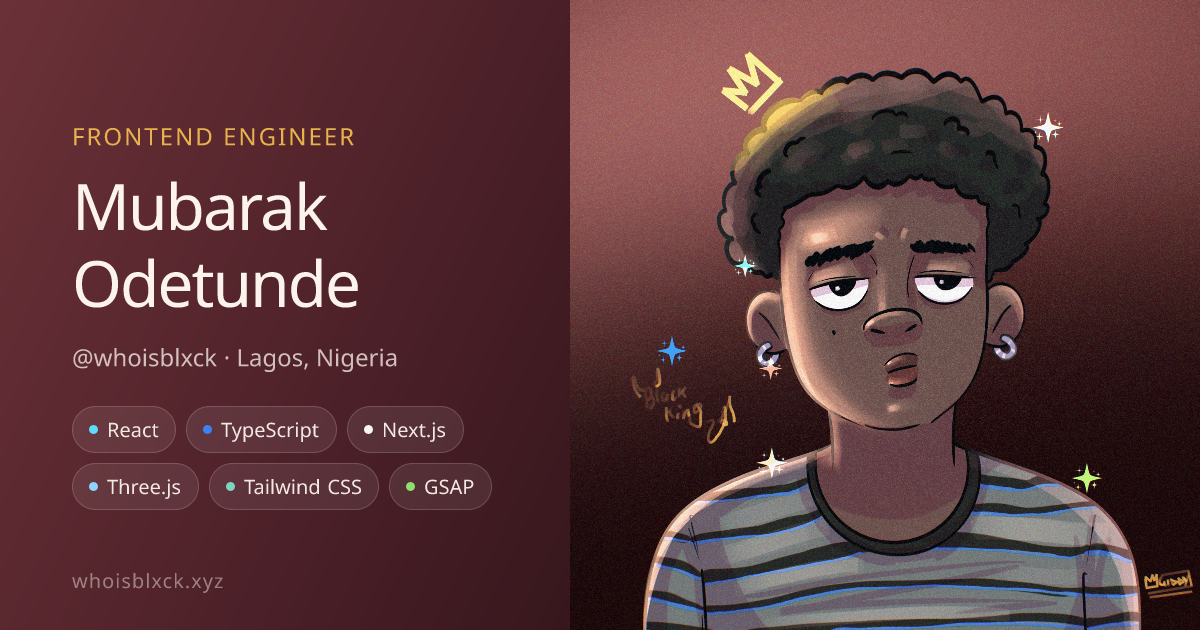
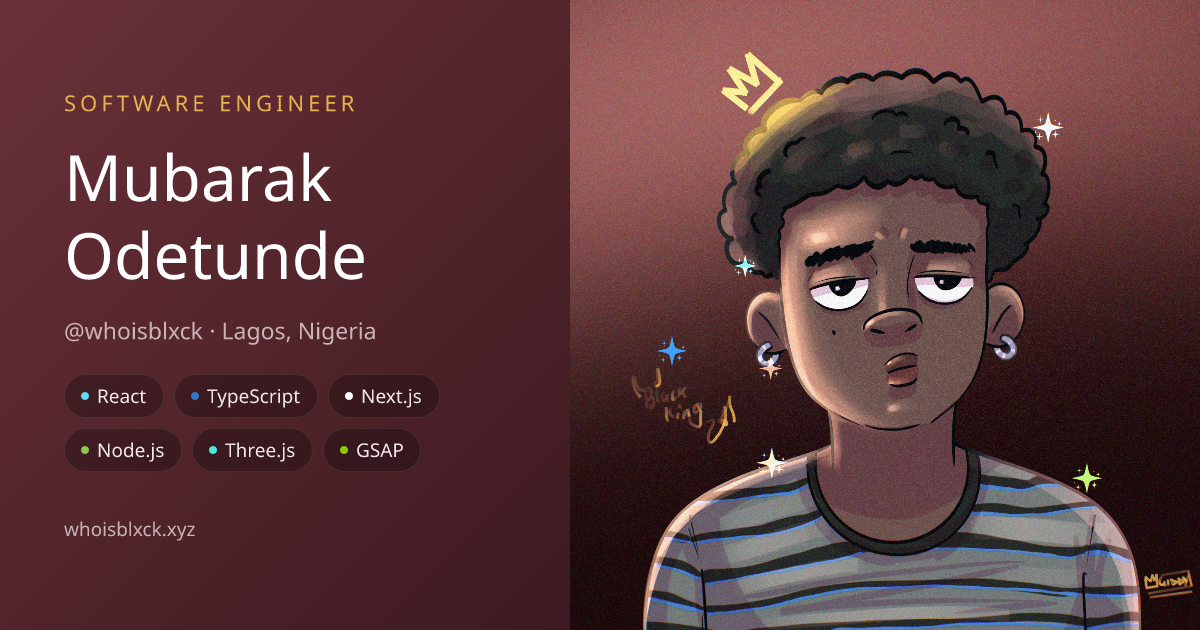
update

diff --git a/src/app/layout.tsx b/src/app/layout.tsx
@@ -16,7 +16,7 @@ const fontSans = FontSans({
 export const metadata: Metadata = {
   metadataBase: new URL(DATA.url),
   title: {
-    default: `${DATA.name} | Frontend Engineer`,
+    default: `${DATA.name} | Software Engineer`,
     template: `%s | ${DATA.name}`,
   },
   icons: {
@@ -33,7 +33,7 @@ export const metadata: Metadata = {
       },
     ],
   },
-  description: `Professional portfolio of ${DATA.name}, a Frontend Engineer specializing in React, TypeScript, and Three.js. Discover projects, experience, and insights on web development.`,
+  description: `Professional portfolio of ${DATA.name}, a Software Engineer specializing in React, TypeScript, Node.js, and Three.js. Discover projects, experience, and insights on web development.`,
   alternates: {
     canonical: "/",
     types: {
@@ -41,8 +41,8 @@ export const metadata: Metadata = {
     },
   },
   openGraph: {
-    title: `${DATA.name} | Frontend Engineer`,
-    description: `Professional portfolio of ${DATA.name}, a Frontend Engineer specializing in React, TypeScript, and Three.js.`,
+    title: `${DATA.name} | Software Engineer`,
+    description: `Professional portfolio of ${DATA.name}, a Software Engineer specializing in React, TypeScript, Node.js, and Three.js.`,
     url: DATA.url,
     siteName: `${DATA.name}`,
     locale: "en_US",
@@ -79,13 +79,15 @@ export const metadata: Metadata = {
     "Odetunde Mubarak",
     "Mubarak Odetunde",
     "whoisblxck",
+    "Software Engineer",
+    "Full Stack Developer",
     "Frontend Engineer",
     "Web3 Nigeria",
     "Portfolio",
     "Resume",
-    "Software Engineer",
     "React Developer",
     "Next.js Developer",
+    "Node.js Developer",
     "JavaScript Developer",
     "TypeScript Developer",
     "React-Native Developer",
@@ -131,7 +133,7 @@ export default function RootLayout({
                 "https://www.linkedin.com/in/mubarak-odetunde-258494236/",
                 "https://x.com/whoisBlxck/",
               ],
-              jobTitle: "Frontend Engineer",
+              jobTitle: "Software Engineer",
               description: DATA.description,
               email: `mailto:${DATA.contact.email}`,
               worksFor: {

diff --git a/src/data/resume.tsx b/src/data/resume.tsx
@@ -8,14 +8,14 @@ export const DATA = {
   location: "Lagos, Nigeria",
   locationLink: "https://goo.gl/maps/8Q1KZJ8v1Zz",
   description:
-    "Frontend dev | React/React Native/Electron/Tauri | TypeScript/Three.js | Building interactive experiences across platforms",
+    "Software engineer | React/React Native/Electron/Tauri/Node.js | TypeScript/Three.js | Building interactive experiences across platforms",
   hero: [
-    "I'm a frontend dev, technically. Think of me as the guy you call when you want something people enjoy using.",
+    "I'm a software engineer, technically. Think of me as the guy you call when you want something people enjoy using.",
     "Websites. Apps. Digital products. Even entire 3D worlds.",
     "I make things functional. Then I make them fun to use.",
   ],
   summary: [
-    "I'm a frontend engineer, but I've never been particularly interested in just ticking off a tech stack. I care much more about how something actually feels to use — the motion, the interaction, the sound, the tiny details you might not consciously notice but always feel. If it doesn't feel good to use, I don't consider it finished.",
+    "I'm a software engineer, but I've never been particularly interested in just ticking off a tech stack. I care much more about how something actually feels to use — the motion, the interaction, the sound, the tiny details you might not consciously notice but always feel. If it doesn't feel good to use, I don't consider it finished.",
     "When I'm not building for clients, I'm usually building because I'm curious. I draw too, and I think that has a lot to do with how I approach the things I build. I like paying attention — to people, nature, architecture, conversations, little everyday details. A lot of my ideas start there.",
     "I like making things that are useful, things that are playful, and occasionally things that are a little weird. Usually, the best projects are somewhere in between.",
   ],
@@ -36,6 +36,7 @@ export const DATA = {
     "Redux Toolkit",
     "Zustand",
     "Vite",
+    "Node.js",
     "Supabase",
     "Web Audio API",
   ],

diff --git a/src/components/hero-section.tsx b/src/components/hero-section.tsx
@@ -43,7 +43,7 @@ export function HeroSection({
       <div className="mx-auto w-full max-w-3xl space-y-8">
         <div className="flex flex-col-reverse items-center justify-between gap-[clamp(0.75rem,3svh,1.5rem)] sm:flex-row sm:items-start">
           <div className="flex w-full min-w-0 flex-1 flex-col space-y-3 text-left sm:space-y-4">
-            <h1 className="sr-only">{name} - Frontend Engineer Portfolio</h1>
+            <h1 className="sr-only">{name} - Software Engineer Portfolio</h1>
             <HeroGreeting
               firstName={name.split(" ")[0]}
               className="text-3xl font-bold tracking-tight sm:text-5xl sm:tracking-tighter xl:text-6xl/none"
